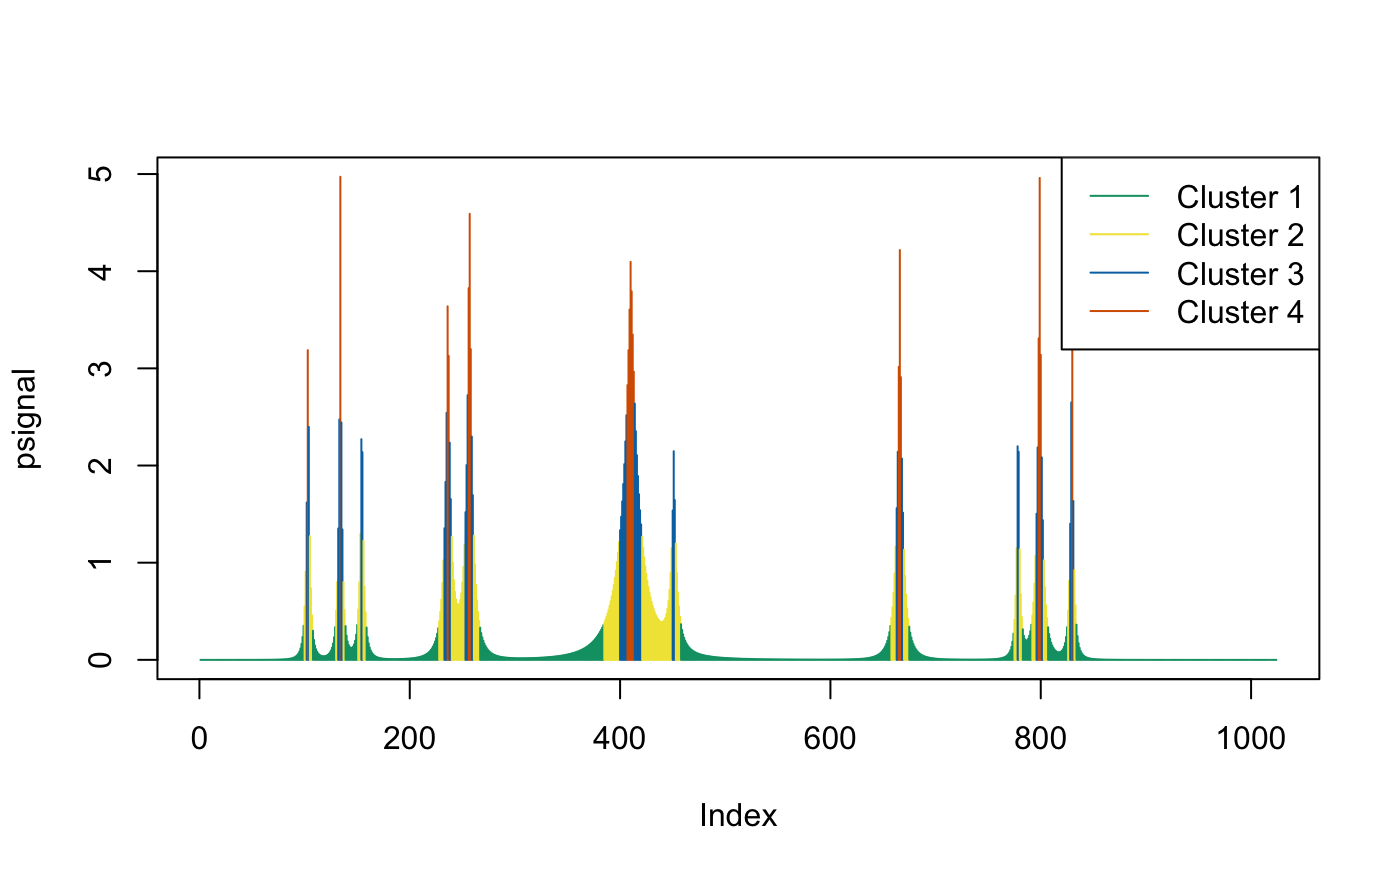
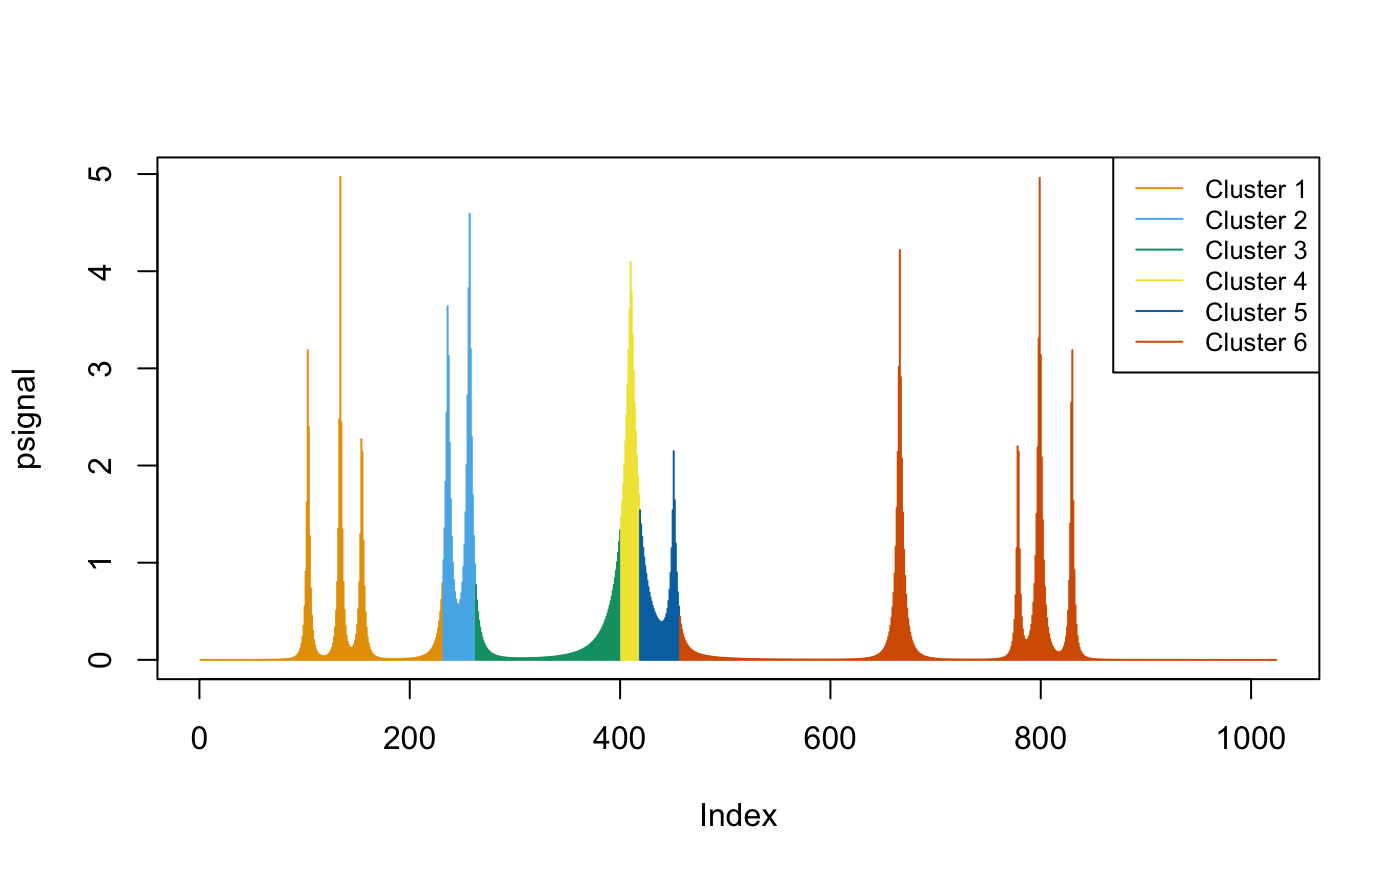
remove section

Changed region(s): [[0.43, 0.3394, 0.7986, 0.7714], [0.7679, 0.1851, 0.9521, 0.432], [0.1843, 0.3394, 0.3686, 0.7714]]

diff --git a/docs/articles/oneclust.html b/docs/articles/oneclust.html
@@ -263,9 +263,9 @@ D = \sum_{i = 1}^{n} w_i (a_i - \bar{a_i})^2
 <span class="fu"><a href="https://rdrr.io/r/base/plot.html">plot</a></span>(<span class="no">psignal</span>, <span class="kw">type</span> <span class="kw">=</span> <span class="st">"l"</span>)</pre></body></html></div>
 <p><img src="oneclust_files/figure-html/unnamed-chunk-18-1.png" width="700"></p>
 </div>
-<div id="clustering-k-2-1" class="section level2">
+<div id="peak-calling-k-2" class="section level2">
 <h2 class="hasAnchor">
-<a href="#clustering-k-2-1" class="anchor"></a>Clustering (k = 2)</h2>
+<a href="#peak-calling-k-2" class="anchor"></a>Peak calling (k = 2)</h2>
 <p>Group the signal into two clusters:</p>
 <div class="sourceCode" id="cb29"><html><body><pre class="r"><span class="no">cl</span> <span class="kw">&lt;-</span> <span class="fu"><a href="../reference/oneclust.html">oneclust</a></span>(<span class="no">psignal</span>, <span class="kw">k</span> <span class="kw">=</span> <span class="fl">2</span>)
 <span class="fu"><a href="https://rdrr.io/r/base/plot.html">plot</a></span>(<span class="no">psignal</span>, <span class="kw">type</span> <span class="kw">=</span> <span class="st">"h"</span>, <span class="kw">col</span> <span class="kw">=</span> <span class="fu"><a href="../reference/cud.html">cud</a></span>(<span class="no">cl</span>$<span class="no">cluster</span>))
@@ -273,33 +273,24 @@ D = \sum_{i = 1}^{n} w_i (a_i - \bar{a_i})^2
 <p><img src="oneclust_files/figure-html/unnamed-chunk-19-1.png" width="700"></p>
 <p>Cluster 2 covers the peak locations — the method did not specify a single data point as the peak, instead, it finds intervals.</p>
 </div>
-<div id="clustering-k-4" class="section level2">
+<div id="peak-calling-k-4" class="section level2">
 <h2 class="hasAnchor">
-<a href="#clustering-k-4" class="anchor"></a>Clustering (k = 4)</h2>
+<a href="#peak-calling-k-4" class="anchor"></a>Peak calling (k = 4)</h2>
 <p>If we increase <span class="math inline">\(k\)</span>, there will be fewer intervals included in the peak cluster (Cluster 4), with narrower peak intervals:</p>
 <div class="sourceCode" id="cb30"><html><body><pre class="r"><span class="no">cl</span> <span class="kw">&lt;-</span> <span class="fu"><a href="../reference/oneclust.html">oneclust</a></span>(<span class="no">psignal</span>, <span class="kw">k</span> <span class="kw">=</span> <span class="fl">4</span>)
 <span class="fu"><a href="https://rdrr.io/r/base/plot.html">plot</a></span>(<span class="no">psignal</span>, <span class="kw">type</span> <span class="kw">=</span> <span class="st">"h"</span>, <span class="kw">col</span> <span class="kw">=</span> <span class="fu"><a href="../reference/cud.html">cud</a></span>(<span class="no">cl</span>$<span class="no">cluster</span> + <span class="fl">2</span>))
 <span class="fu"><a href="https://rdrr.io/r/graphics/legend.html">legend</a></span>(<span class="st">"topright"</span>, <span class="kw">legend</span> <span class="kw">=</span> <span class="fu"><a href="https://rdrr.io/r/base/paste.html">paste</a></span>(<span class="st">"Cluster"</span>, <span class="fu"><a href="https://rdrr.io/r/base/unique.html">unique</a></span>(<span class="no">cl</span>$<span class="no">cluster</span>)), <span class="kw">col</span> <span class="kw">=</span> <span class="fu"><a href="../reference/cud.html">cud</a></span>(<span class="fu"><a href="https://rdrr.io/r/base/unique.html">unique</a></span>(<span class="no">cl</span>$<span class="no">cluster</span> + <span class="fl">2</span>)), <span class="kw">lty</span> <span class="kw">=</span> <span class="fl">1</span>)</pre></body></html></div>
 <p><img src="oneclust_files/figure-html/unnamed-chunk-20-1.png" width="700"></p>
+<p>One may also use the parameter <code>w</code> in <code><a href="../reference/oneclust.html">oneclust()</a></code> to use the weighted version of the algorithm and amplify the signal.</p>
 </div>
-<div id="clustering-k-4-1" class="section level2">
+<div id="segmentation-k-6" class="section level2">
 <h2 class="hasAnchor">
-<a href="#clustering-k-4-1" class="anchor"></a>Clustering (k = 4)</h2>
-<p>If we increase <span class="math inline">\(k\)</span>, there will be fewer intervals included in the peak cluster (Cluster 4), with narrower peak intervals:</p>
-<div class="sourceCode" id="cb31"><html><body><pre class="r"><span class="no">cl</span> <span class="kw">&lt;-</span> <span class="fu"><a href="../reference/oneclust.html">oneclust</a></span>(<span class="no">psignal</span>, <span class="kw">k</span> <span class="kw">=</span> <span class="fl">4</span>)
-<span class="fu"><a href="https://rdrr.io/r/base/plot.html">plot</a></span>(<span class="no">psignal</span>, <span class="kw">type</span> <span class="kw">=</span> <span class="st">"h"</span>, <span class="kw">col</span> <span class="kw">=</span> <span class="fu"><a href="../reference/cud.html">cud</a></span>(<span class="no">cl</span>$<span class="no">cluster</span> + <span class="fl">2</span>))
-<span class="fu"><a href="https://rdrr.io/r/graphics/legend.html">legend</a></span>(<span class="st">"topright"</span>, <span class="kw">legend</span> <span class="kw">=</span> <span class="fu"><a href="https://rdrr.io/r/base/paste.html">paste</a></span>(<span class="st">"Cluster"</span>, <span class="fu"><a href="https://rdrr.io/r/base/unique.html">unique</a></span>(<span class="no">cl</span>$<span class="no">cluster</span>)), <span class="kw">col</span> <span class="kw">=</span> <span class="fu"><a href="../reference/cud.html">cud</a></span>(<span class="fu"><a href="https://rdrr.io/r/base/unique.html">unique</a></span>(<span class="no">cl</span>$<span class="no">cluster</span> + <span class="fl">2</span>)), <span class="kw">lty</span> <span class="kw">=</span> <span class="fl">1</span>)</pre></body></html></div>
-<p><img src="oneclust_files/figure-html/unnamed-chunk-21-1.png" width="700"></p>
-</div>
-<div id="clustering-while-preserving-data-order-k-6" class="section level2">
-<h2 class="hasAnchor">
-<a href="#clustering-while-preserving-data-order-k-6" class="anchor"></a>Clustering while preserving data order (k = 6)</h2>
-<p>To find a segmentation of the data, we should respect the order of the data:</p>
-<div class="sourceCode" id="cb32"><html><body><pre class="r"><span class="no">cl</span> <span class="kw">&lt;-</span> <span class="fu"><a href="../reference/oneclust.html">oneclust</a></span>(<span class="no">psignal</span>, <span class="kw">k</span> <span class="kw">=</span> <span class="fl">6</span>, <span class="kw">sort</span> <span class="kw">=</span> <span class="fl">FALSE</span>)
+<a href="#segmentation-k-6" class="anchor"></a>Segmentation (k = 6)</h2>
+<p>For segmentation, we should respect the order of the data:</p>
+<div class="sourceCode" id="cb31"><html><body><pre class="r"><span class="no">cl</span> <span class="kw">&lt;-</span> <span class="fu"><a href="../reference/oneclust.html">oneclust</a></span>(<span class="no">psignal</span>, <span class="kw">k</span> <span class="kw">=</span> <span class="fl">6</span>, <span class="kw">sort</span> <span class="kw">=</span> <span class="fl">FALSE</span>)
 <span class="fu"><a href="https://rdrr.io/r/base/plot.html">plot</a></span>(<span class="no">psignal</span>, <span class="kw">type</span> <span class="kw">=</span> <span class="st">"h"</span>, <span class="kw">col</span> <span class="kw">=</span> <span class="fu"><a href="../reference/cud.html">cud</a></span>(<span class="no">cl</span>$<span class="no">cluster</span>))
 <span class="fu"><a href="https://rdrr.io/r/graphics/legend.html">legend</a></span>(<span class="st">"topright"</span>, <span class="kw">legend</span> <span class="kw">=</span> <span class="fu"><a href="https://rdrr.io/r/base/paste.html">paste</a></span>(<span class="st">"Cluster"</span>, <span class="fu"><a href="https://rdrr.io/r/base/unique.html">unique</a></span>(<span class="no">cl</span>$<span class="no">cluster</span>)), <span class="kw">col</span> <span class="kw">=</span> <span class="fu"><a href="../reference/cud.html">cud</a></span>(<span class="fu"><a href="https://rdrr.io/r/base/unique.html">unique</a></span>(<span class="no">cl</span>$<span class="no">cluster</span>)), <span class="kw">lty</span> <span class="kw">=</span> <span class="fl">1</span>, <span class="kw">cex</span> <span class="kw">=</span> <span class="fl">0.8</span>)</pre></body></html></div>
-<p><img src="oneclust_files/figure-html/unnamed-chunk-22-1.png" width="700"></p>
-<p>One may also use the parameter <code>w</code> in <code><a href="../reference/oneclust.html">oneclust()</a></code> to use the weighted version of the algorithm and amplify the signal.</p>
+<p><img src="oneclust_files/figure-html/unnamed-chunk-21-1.png" width="700"></p>
 </div>
 </div>
 <div id="references" class="section level1 unnumbered">
